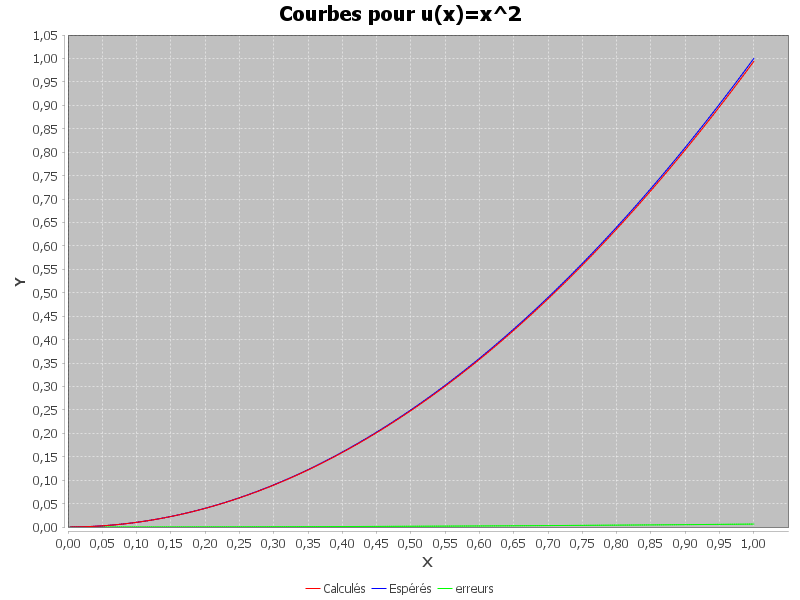
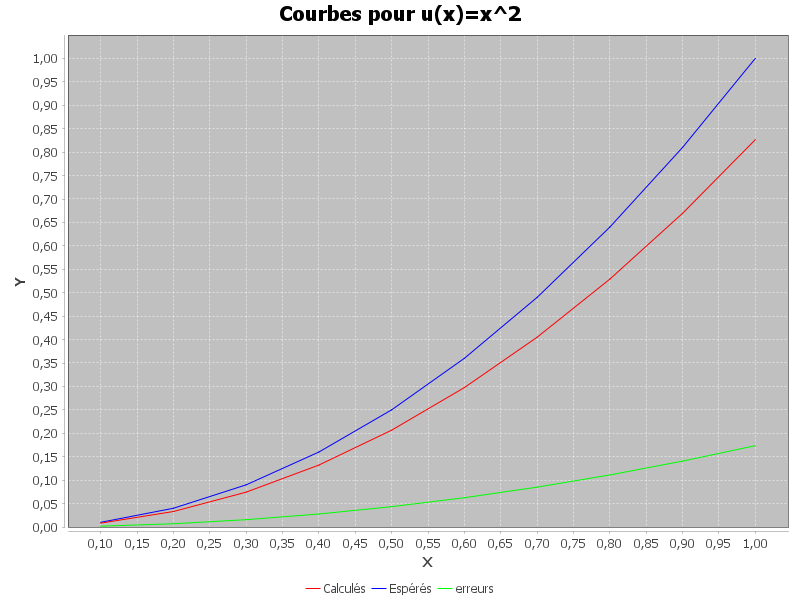
Add images for nbMailles=10

diff --git a/src/test/java/ElementsFinisTest.java b/src/test/java/ElementsFinisTest.java
@@ -105,7 +105,7 @@ public class ElementsFinisTest {
         System.out.println("Tests avec u(x) = 1");
         System.out.println("Cas avec 320 points entre 0 et 1");
         int[] nbsMailles = {10, 20, 40, 80, 160, 320};
-        int nbMailles = 321;
+        int nbMailles = 11;
         ArrayList<Double> fValues = new ArrayList();
         double pas = 1.0/(nbMailles-1);
         double init =0.0;
@@ -205,7 +205,7 @@ public class ElementsFinisTest {
         System.out.println("Tests avec u(x) = x");
         System.out.println("Cas avec 320 points entre 0 et 1");
         int[] nbsMailles = {10, 20, 40, 80, 160, 320};
-        int nbMailles = 321;
+        int nbMailles = 11;
         ArrayList<Double> fValues = new ArrayList();
         double pas = 1.0/(nbMailles-1);
         double init =0.0;
@@ -306,7 +306,7 @@ public class ElementsFinisTest {
         System.out.println("Tests avec f(x) = x^2");
         System.out.println("Cas avec 320 points entre 0 et 1");
         int[] nbsMailles = {10, 20, 40, 80, 160, 320};
-        int nbMailles = 321;
+        int nbMailles = 11;
         ArrayList<Double> fValues = new ArrayList();
         double pas = 1.0/(nbMailles-1);
         double init =0.0;
@@ -407,7 +407,7 @@ public class ElementsFinisTest {
         System.out.println("Tests avec f(x) = x^3");
         System.out.println("Cas avec 320 points entre 0 et 1");
         int[] nbsMailles = {10, 20, 40, 80, 160, 320};
-        int nbMailles = 321;
+        int nbMailles = 11;
         ArrayList<Double> fValues = new ArrayList();
         double pas = 1.0/(nbMailles-1);
         double init =0.0;
@@ -508,7 +508,7 @@ public class ElementsFinisTest {
         System.out.println("Tests avec f(x) = sin(pi*x)");
         System.out.println("Cas avec 320 points entre 0 et 1");
         int[] nbsMailles = {10, 20, 40, 80, 160, 320};
-        int nbMailles = 321;
+        int nbMailles = 11;
         ArrayList<Double> fValues = new ArrayList();
         double pas = 1.0/(nbMailles-1);
         double init =0.0;
